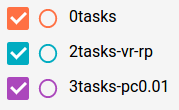
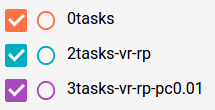
rename

Changed region(s): [[0.0, 0.6818, 0.9497, 0.9273], [0.0, 0.3818, 0.8659, 0.6273], [0.0, 0.0545, 0.6704, 0.3]]

diff --git a/main.py b/main.py
@@ -550,7 +550,7 @@ class Agent():
 
         return mnet_loss
 
-name_of_run = '3tasks-pc0.01'
+name_of_run = '3tasks-vr-rp-pc0.01'
 summary_dir = 'logs/'+name_of_run
 if not os.path.exists(summary_dir): os.makedirs(summary_dir)
 
